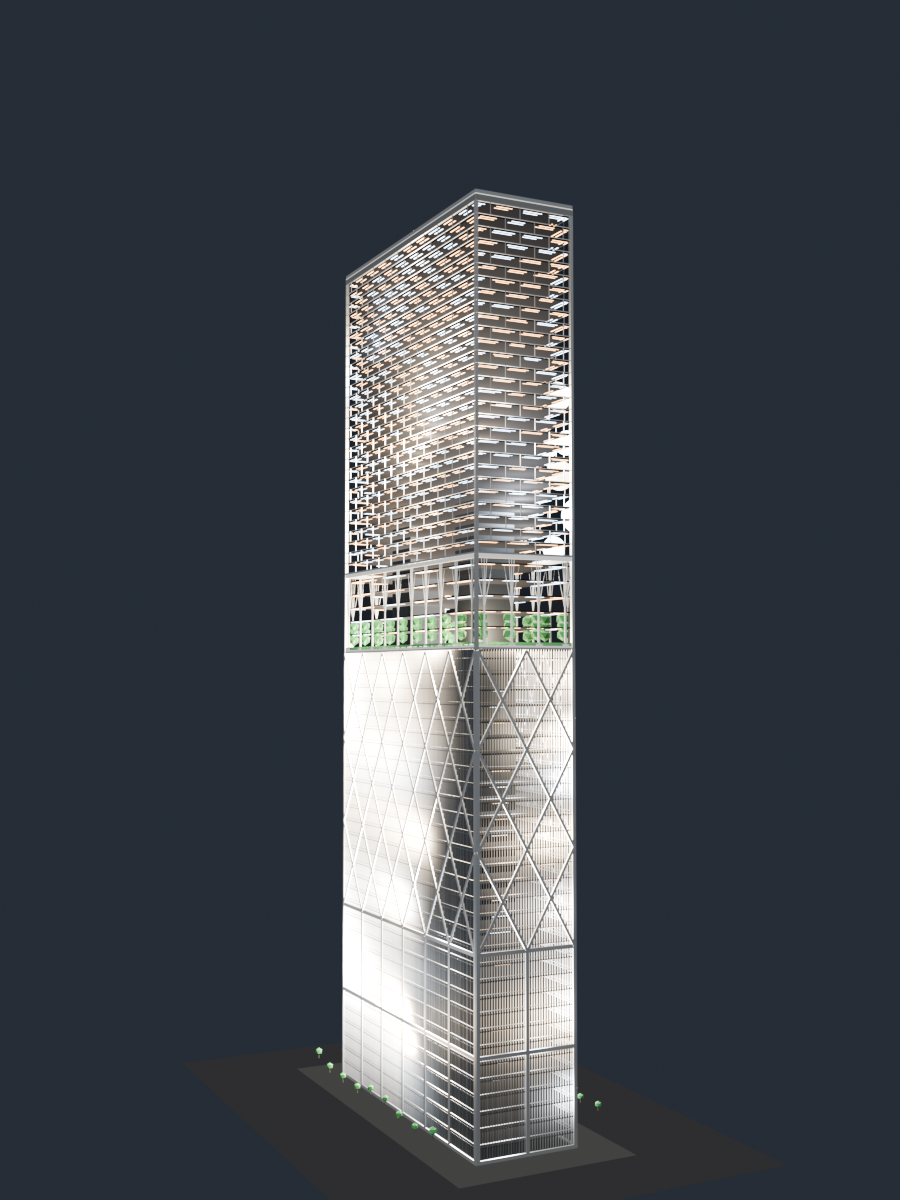
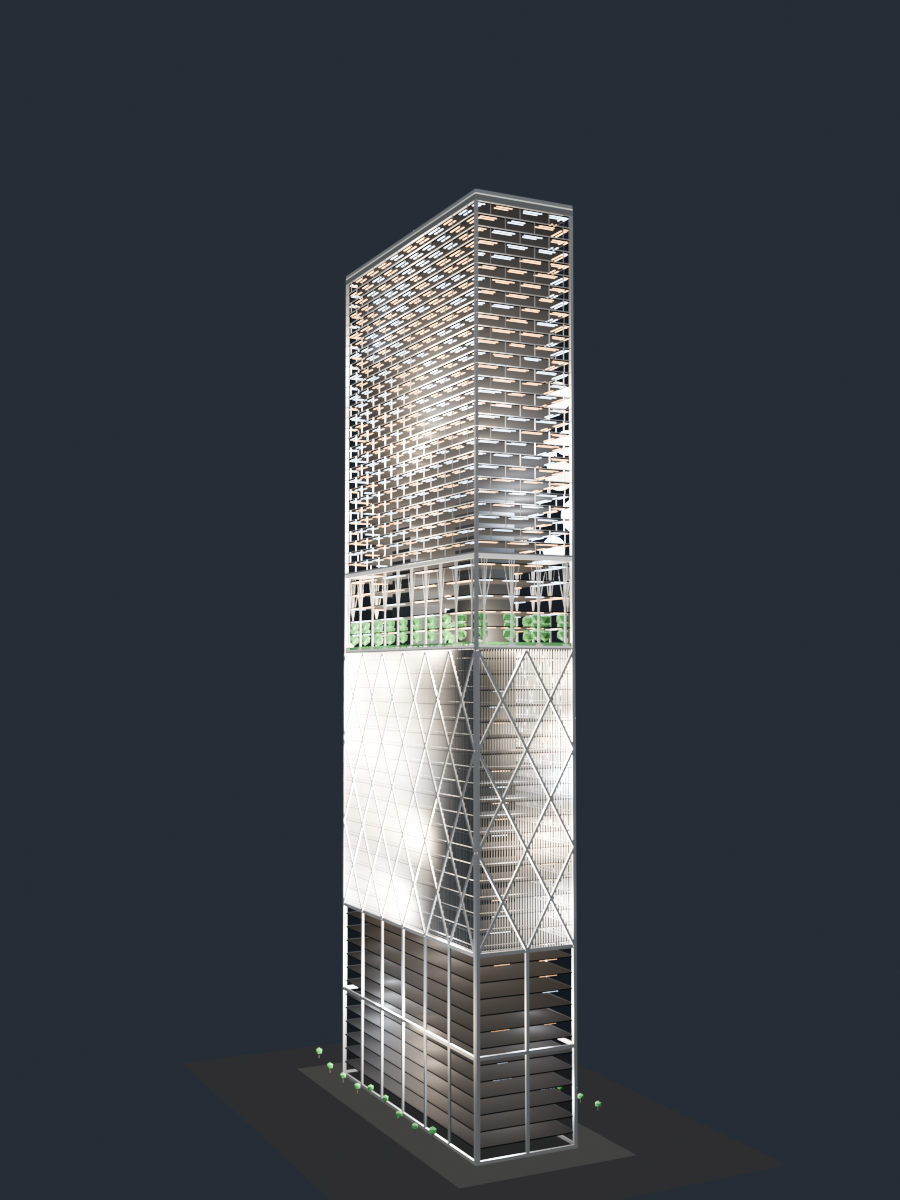
feat: leave the Stack 3 mall base as very large bare glass
The fine office window grid now starts only above the framed base, so the two
lowest tiers read as the mall: six 18 x 32 m glass panes per row, held by the
big frame alone, with no mullions, transoms or sills.

Changed region(s): [[0.3733, 0.74, 0.6533, 0.9558]]

diff --git a/build_stack3.py b/build_stack3.py
@@ -447,6 +447,7 @@ def build_lattice(mats, cols, rng):
     bays, tiers = 6, 5
     inset = 0.62
     tier_h = (z1 - z0) / tiers
+    base_top = z0 + inset + 2 * ((z1 - z0) - 2 * inset) / tiers
 
     glass = Part("Lattice_Glass", mats["glass_deep"], col)
     for face in FACES:
@@ -464,14 +465,17 @@ def build_lattice(mats, cols, rng):
         step = 2 * half / n
         for i in range(n + 1):
             u = -half + i * step
-            mull.face_box(face, u - 0.07, u + 0.07, z0, z1, -0.60, 0.60)
+            mull.face_box(face, u - 0.07, u + 0.07, base_top, z1, -0.60, 0.60)
     mull.finish()
 
     trans = Part("Lattice_Transoms", mats["silver"], col)
     sill = Part("Lattice_Sills", mats["slate"], col)
     for face in FACES:
         half = face_half(face)
-        floors = [z0] + [lev for lev in floor_levels() if z0 < lev <= z1]
+        floors = [lev for lev in floor_levels()
+                  if base_top - 0.5 <= lev <= z1]
+        if not floors or floors[0] > base_top + 0.5:
+            floors = [base_top] + floors
         for a, b in zip(floors, floors[1:]):
             # storey-line transom, straddling the floor plate at its top
             trans.face_box(face, -half, half, b - 0.05, b + 0.05,

diff --git a/README.md b/README.md
@@ -245,13 +245,15 @@ module and run 28 floors.
 
 - **Lattice, 0-158 m.** The whole lower block is one facade: an external frame six
   bays wide by five tiers tall. The bottom two tiers are framed cells - six big
-  glazed squares per row, closed by thick members, no X - and the upper three
-  tiers are diagonal only: an X in every cell, no intermediate verticals and no
+  glazed squares per row, closed by thick members, no X, and left as very large
+  bare glass (a mall, no window grid) - while the upper three tiers are diagonal
+  only: an X in every cell, no intermediate verticals and no
   horizontal bands, just the corner posts and the diamond grid. The frame carries vertical posts only: no added horizontal
   band, the floor line is the dark slab edge itself; every floor plate in the
   model is near-black. Behind it is one dark glass skin with no visible pane
   joints at all: a fine vertical curtain wall of 1.25 m panes - 4:1 with the
-  5 m storey. The window frame is Stack 2's office curtain wall: 140 mm mullions
+  5 m storey. Above the mall base the window frame is Stack 2's office curtain
+  wall: 140 mm mullions
   by 600 mm deep on a 0.95 m module, a 100 mm transom on every floor and a
   second one a metre above it, and the dark 100 mm sill at the foot of every
   storey - Stack 2's office band item for item. Every floor, here and in the planted level, is
